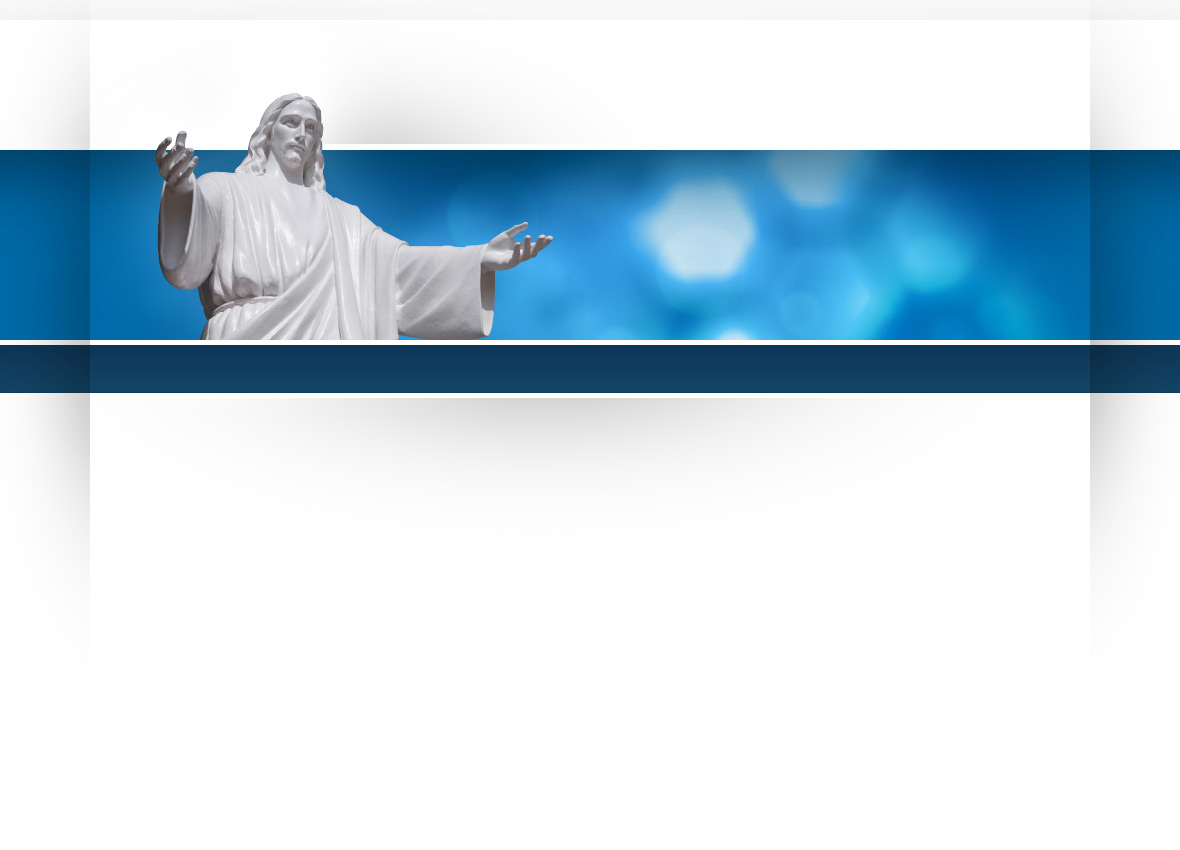
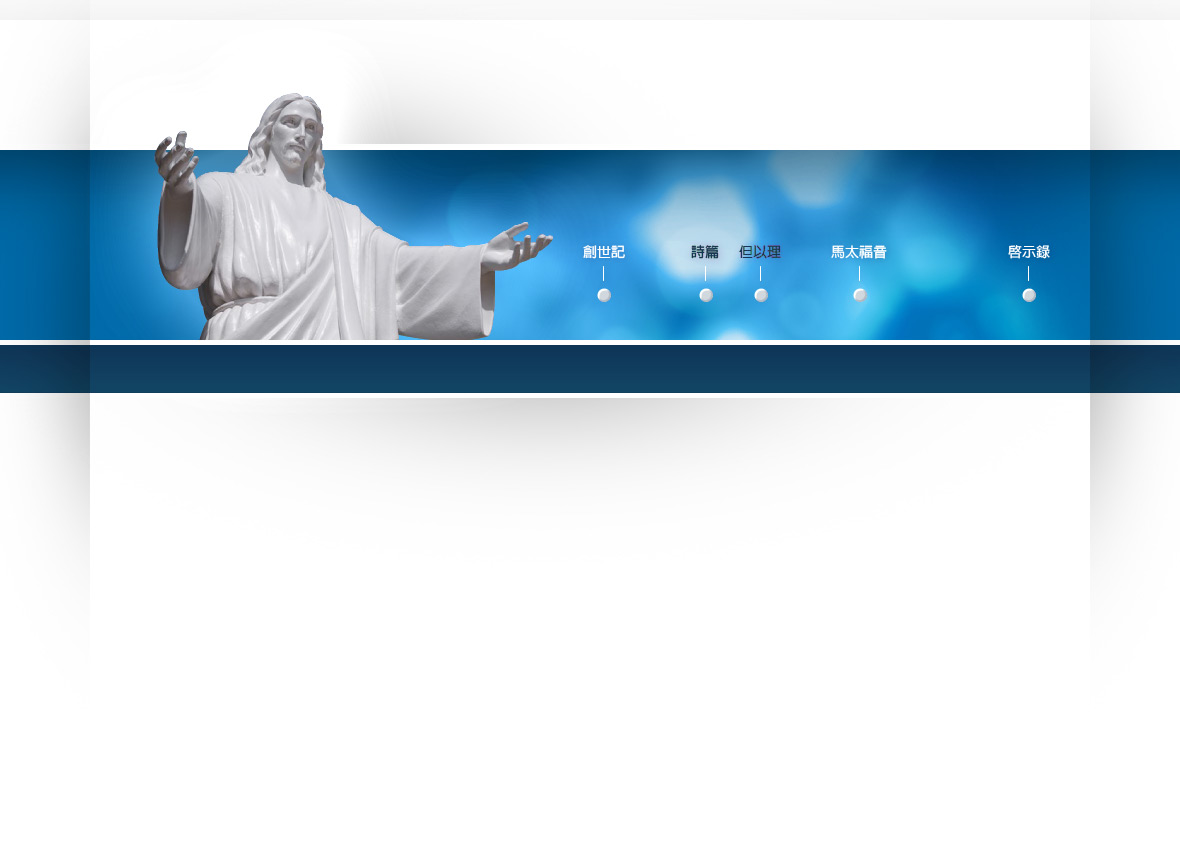
美化書籍導覽列(首頁) 首頁重新設計 更新版權聲明

diff --git a/layout_main/css/default.css b/layout_main/css/default.css
@@ -273,11 +273,11 @@ ul.style3 li {
 
 .scroll-bar-wrap{
     position:absolute;
-    right:20px;
-    top:60px;
-    width:240px;
+    right:44px;
+    top:40px;
+    width:457px;
     height:32px;
-    border:1px solid #ccc;
+    border-bottom:1px solid #ccc;
 }
 .scroll-bar{
     clear: both;
@@ -285,7 +285,7 @@ ul.style3 li {
     margin:0 auto;
 }
 .scroll-bar .ui-handle-helper-parent { position: relative; width: 100%; height: 30px; margin: 0 auto; }
-.scroll-bar .ui-slider-handle { display:block; position:absolute; top:3px; height: 25px;background:#ccc; }
+.scroll-bar .ui-slider-handle { display:block; position:absolute; top:1px; height: 30px; background:url(../images/scrollbar-handler.png) no-repeat 0 12px; }
 .scroll-bar .ui-slider-handle .ui-icon { margin: -8px auto 0; position: relative; top: 50%; }
 
 /* Corner radius */

diff --git a/layout_main/css/layout.css b/layout_main/css/layout.css
@@ -63,7 +63,30 @@ a.rss{
 #content ul li{
     margin:5px 0;
 }
-
+#bible-container{
+    height:550px;
+    width:900px;
+    overflow:hidden;
+}
+#bible-container ul{
+    height:550px;
+    margin-left:0px;
+}
+#bible-container ul li{
+    float:left;
+    width:180px;
+    height:100%;
+}
+.bible-button{
+    height:40px;
+    line-height:40px;
+    width:440px;
+    text-align:center;
+    cursor:pointer;
+    border:1px solid #ccc;
+}
+#bible-old{ float:left; }
+#bible-new{ float:right; }
 /** SIDEBAR */
 
 #sidebar {

diff --git a/main=index.php b/main=index.php
@@ -22,19 +22,138 @@ $(document).ready( function(){
             href:url
         });
     });
-    $('.bookNav').append('<div id="chapter-guide"></div>');
+    //$('.bookNav').append('<div id="chapter-guide"></div>');
+    $("#bible-container").jCarouselLite({
+        //auto: 6000,
+        speed: 500,
+        circular: false,
+        //hoverPause: true,
+        visible: 5,
+        scroll: 5,
+        btnNext: '#bible-new',
+        btnPrev: '#bible-old'
+    });
 });
 </script>
 <?php } ?>
 
 
 <style>
-.sky { float:left;height:450px;font-family: Georgia, "蘋果儷黑體", "微軟正黑體", "新細明體", "Times New Roman", Times, serif; }
+.sky { float:left;font-family: Georgia, "蘋果儷黑體", "微軟正黑體", "新細明體", "Times New Roman", Times, serif; }
 .cloud a{ text-decoration:none; }
 .cloud a:hover{ text-decoration:underline; }
+.chapter_digit{ color:#000;font-size:13px;font-weight:bold;font-family:Arial; }
 </style>
 			<div id="page" class="single container">
 				<div id="content">
+				    <div class="cloud sky clearfix" style="border-bottom:1px solid #CCC;margin-bottom:40px;">
+    				    <div class="clearfix">
+    				        <div id="bible-old" class="bible-button ui-corner-all"><h2 class="title">舊約 Old Testament</h2></div>
+    				        <div id="bible-new" class="bible-button ui-corner-all"><h2 class="title">新約 New Testament</h2></div>
+				        </div>
+				        <div id="bible-container">
+				            <ul>
+				                <li>
+				                    <div>
+                                    <img src="<?php echo url('/cabinets/bible/bible-1.png'); ?>">
+<a href="創世記.html" style="font-size:16px;" rel="bible-index" name="創世記">創世記</a> <span class="chapter_digit">50</span> &nbsp;<a href="創世記.html" style="font-size:12px;color:#999;">概要</a><br>
+<a href="出埃及記.html" style="font-size:16px;" rel="bible-index" name="出埃及記">出埃及記</a> <span class="chapter_digit">40</span> &nbsp;<a href="出埃及記.html" style="font-size:12px;color:#999;">概要</a><br>
+<a href="利未記.html" style="font-size:16px;" rel="bible-index" name="利未記">利未記</a> <span class="chapter_digit">27</span> &nbsp;<a href="利未記.html" style="font-size:12px;color:#999;">概要</a><br>
+<a href="民數記.html" style="font-size:16px;" rel="bible-index" name="民數記">民數記</a> <span class="chapter_digit">36</span> &nbsp;<a href="民數記.html" style="font-size:12px;color:#999;">概要</a><br>
+<a href="申命記.html" style="font-size:16px;" rel="bible-index" name="申命記">申命記</a> <span class="chapter_digit">34</span> &nbsp;<a href="申命記.html" style="font-size:12px;color:#999;">概要</a><br>
+                                    </div>
+                                </li>
+				                <li>
+                                    <img src="<?php echo url('/cabinets/bible/bible-2.png'); ?>">
+<span style="font-size:11px;color:#ccc;font-family:Arial;">6 </span> <a href="約書亞記.html" style="font-size:16px;" rel="bible-index" name="約書亞記">約書亞記</a> <span style="color:#000;font-size:13px;font-weight:bold;font-family:Arial;">24</span> &nbsp;<a href="約書亞記.html" style="font-size:12px;color:#999;">概要</a><br>
+<span style="font-size:11px;color:#ccc;font-family:Arial;">7 </span> <a href="士師記.html" style="font-size:16px;" rel="bible-index" name="士師記">士師記</a> <span style="color:#000;font-size:13px;font-weight:bold;font-family:Arial;">21</span> &nbsp;<a href="士師記.html" style="font-size:12px;color:#999;">概要</a><br>
+<span style="font-size:11px;color:#ccc;font-family:Arial;">8 </span> <a href="路得記.html" style="font-size:16px;" rel="bible-index" name="路得記">路得記</a> <span style="color:#000;font-size:13px;font-weight:bold;font-family:Arial;">4</span> &nbsp;<a href="路得記.html" style="font-size:12px;color:#999;">概要</a><br>
+<span style="font-size:11px;color:#ccc;font-family:Arial;">9 </span> <a href="撒母耳記上.html" style="font-size:16px;" rel="bible-index" name="撒母耳記上">撒母耳記上</a> <span style="color:#000;font-size:13px;font-weight:bold;font-family:Arial;">31</span> &nbsp;<a href="撒母耳記上.html" style="font-size:12px;color:#999;">概要</a><br>
+<span style="font-size:11px;color:#ccc;font-family:Arial;">10 </span> <a href="撒母耳記下.html" style="font-size:16px;" rel="bible-index" name="撒母耳記下">撒母耳記下</a> <span style="color:#000;font-size:13px;font-weight:bold;font-family:Arial;">24</span> &nbsp;<a href="撒母耳記下.html" style="font-size:12px;color:#999;">概要</a><br>
+<span style="font-size:11px;color:#ccc;font-family:Arial;">11 </span> <a href="列王紀上.html" style="font-size:16px;" rel="bible-index" name="列王紀上">列王紀上</a> <span style="color:#000;font-size:13px;font-weight:bold;font-family:Arial;">22</span> &nbsp;<a href="列王紀上.html" style="font-size:12px;color:#999;">概要</a><br>
+<span style="font-size:11px;color:#ccc;font-family:Arial;">12 </span> <a href="列王紀下.html" style="font-size:16px;" rel="bible-index" name="列王紀下">列王紀下</a> <span style="color:#000;font-size:13px;font-weight:bold;font-family:Arial;">25</span> &nbsp;<a href="列王紀下.html" style="font-size:12px;color:#999;">概要</a><br>
+<span style="font-size:11px;color:#ccc;font-family:Arial;">13 </span> <a href="歷代志上.html" style="font-size:16px;" rel="bible-index" name="歷代志上">歷代志上</a> <span style="color:#000;font-size:13px;font-weight:bold;font-family:Arial;">29</span> &nbsp;<a href="歷代志上.html" style="font-size:12px;color:#999;">概要</a><br>
+<span style="font-size:11px;color:#ccc;font-family:Arial;">14 </span> <a href="歷代志下.html" style="font-size:16px;" rel="bible-index" name="歷代志下">歷代志下</a> <span style="color:#000;font-size:13px;font-weight:bold;font-family:Arial;">36</span> &nbsp;<a href="歷代志下.html" style="font-size:12px;color:#999;">概要</a><br>
+<span style="font-size:11px;color:#ccc;font-family:Arial;">15 </span> <a href="以斯拉記.html" style="font-size:16px;" rel="bible-index" name="以斯拉記">以斯拉記</a> <span style="color:#000;font-size:13px;font-weight:bold;font-family:Arial;">10</span> &nbsp;<a href="以斯拉記.html" style="font-size:12px;color:#999;">概要</a><br>
+<span style="font-size:11px;color:#ccc;font-family:Arial;">16 </span> <a href="尼希米記.html" style="font-size:16px;" rel="bible-index" name="尼希米記">尼希米記</a> <span style="color:#000;font-size:13px;font-weight:bold;font-family:Arial;">13</span> &nbsp;<a href="尼希米記.html" style="font-size:12px;color:#999;">概要</a><br>
+<span style="font-size:11px;color:#ccc;font-family:Arial;">17 </span> <a href="以斯帖記.html" style="font-size:16px;" rel="bible-index" name="以斯帖記">以斯帖記</a> <span style="color:#000;font-size:13px;font-weight:bold;font-family:Arial;">10</span> &nbsp;<a href="以斯帖記.html" style="font-size:12px;color:#999;">概要</a><br>
+                                </li>
+				                <li>
+                                    <img src="<?php echo url('/cabinets/bible/bible-3.png'); ?>">
+<span style="font-size:11px;color:#ccc;font-family:Arial;">18 </span> <a href="約伯記.html" style="font-size:16px;" rel="bible-index" name="約伯記">約伯記</a> <span style="color:#000;font-size:13px;font-weight:bold;font-family:Arial;">42</span> &nbsp;<a href="約伯記.html" style="font-size:12px;color:#999;">概要</a><br>
+<span style="font-size:11px;color:#ccc;font-family:Arial;">19 </span> <a href="詩篇.html" style="font-size:16px;" rel="bible-index" name="詩篇">詩篇</a> <span style="color:#000;font-size:13px;font-weight:bold;font-family:Arial;">150</span> &nbsp;<a href="詩篇.html" style="font-size:12px;color:#999;">概要</a><br>
+<span style="font-size:11px;color:#ccc;font-family:Arial;">20 </span> <a href="箴言.html" style="font-size:16px;" rel="bible-index" name="箴言">箴言</a> <span style="color:#000;font-size:13px;font-weight:bold;font-family:Arial;">31</span> &nbsp;<a href="箴言.html" style="font-size:12px;color:#999;">概要</a><br>
+<span style="font-size:11px;color:#ccc;font-family:Arial;">21 </span> <a href="傳道書.html" style="font-size:16px;" rel="bible-index" name="傳道書">傳道書</a> <span style="color:#000;font-size:13px;font-weight:bold;font-family:Arial;">12</span> &nbsp;<a href="傳道書.html" style="font-size:12px;color:#999;">概要</a><br>
+<span style="font-size:11px;color:#ccc;font-family:Arial;">22 </span> <a href="雅歌.html" style="font-size:16px;" rel="bible-index" name="雅歌">雅歌</a> <span style="color:#000;font-size:13px;font-weight:bold;font-family:Arial;">8</span> &nbsp;<a href="雅歌.html" style="font-size:12px;color:#999;">概要</a><br>
+                                </li>
+				                <li>
+                                    <img src="<?php echo url('/cabinets/bible/bible-4.png'); ?>">
+<span style="font-size:11px;color:#ccc;font-family:Arial;">23 </span> <a href="以賽亞書.html" style="font-size:16px;" rel="bible-index" name="以賽亞書">以賽亞書</a> <span style="color:#000;font-size:13px;font-weight:bold;font-family:Arial;">66</span> &nbsp;<a href="以賽亞書.html" style="font-size:12px;color:#999;">概要</a><br>
+<span style="font-size:11px;color:#ccc;font-family:Arial;">24 </span> <a href="耶利米書.html" style="font-size:16px;" rel="bible-index" name="耶利米書">耶利米書</a> <span style="color:#000;font-size:13px;font-weight:bold;font-family:Arial;">52</span> &nbsp;<a href="耶利米書.html" style="font-size:12px;color:#999;">概要</a><br>
+<span style="font-size:11px;color:#ccc;font-family:Arial;">25 </span> <a href="耶利米哀歌.html" style="font-size:16px;" rel="bible-index" name="耶利米哀歌">耶利米哀歌</a> <span style="color:#000;font-size:13px;font-weight:bold;font-family:Arial;">5</span> &nbsp;<a href="耶利米哀歌.html" style="font-size:12px;color:#999;">概要</a><br>
+<span style="font-size:11px;color:#ccc;font-family:Arial;">26 </span> <a href="以西結書.html" style="font-size:16px;" rel="bible-index" name="以西結書">以西結書</a> <span style="color:#000;font-size:13px;font-weight:bold;font-family:Arial;">48</span> &nbsp;<a href="以西結書.html" style="font-size:12px;color:#999;">概要</a><br>
+<span style="font-size:11px;color:#ccc;font-family:Arial;">27 </span> <a href="但以理書.html" style="font-size:16px;" rel="bible-index" name="但以理書">但以理書</a> <span style="color:#000;font-size:13px;font-weight:bold;font-family:Arial;">12</span> &nbsp;<a href="但以理書.html" style="font-size:12px;color:#999;">概要</a><br>
+                                </li>
+				                <li>
+                                    <img src="<?php echo url('/cabinets/bible/bible-5.png'); ?>">
+<span style="font-size:11px;color:#ccc;font-family:Arial;">28 </span> <a href="何西阿書.html" style="font-size:16px;" rel="bible-index" name="何西阿書">何西阿書</a> <span style="color:#000;font-size:13px;font-weight:bold;font-family:Arial;">14</span> &nbsp;<a href="何西阿書.html" style="font-size:12px;color:#999;">概要</a><br>
+<span style="font-size:11px;color:#ccc;font-family:Arial;">29 </span> <a href="約珥書.html" style="font-size:16px;" rel="bible-index" name="約珥書">約珥書</a> <span style="color:#000;font-size:13px;font-weight:bold;font-family:Arial;">3</span> &nbsp;<a href="約珥書.html" style="font-size:12px;color:#999;">概要</a><br>
+<span style="font-size:11px;color:#ccc;font-family:Arial;">30 </span> <a href="阿摩司書.html" style="font-size:16px;" rel="bible-index" name="阿摩司書">阿摩司書</a> <span style="color:#000;font-size:13px;font-weight:bold;font-family:Arial;">9</span> &nbsp;<a href="阿摩司書.html" style="font-size:12px;color:#999;">概要</a><br>
+<span style="font-size:11px;color:#ccc;font-family:Arial;">31 </span> <a href="俄巴底亞書.html" style="font-size:16px;" rel="bible-index" name="俄巴底亞書">俄巴底亞書</a> <span style="color:#000;font-size:13px;font-weight:bold;font-family:Arial;">1</span> &nbsp;<a href="俄巴底亞書.html" style="font-size:12px;color:#999;">概要</a><br>
+<span style="font-size:11px;color:#ccc;font-family:Arial;">32 </span> <a href="約拿書.html" style="font-size:16px;" rel="bible-index" name="約拿書">約拿書</a> <span style="color:#000;font-size:13px;font-weight:bold;font-family:Arial;">4</span> &nbsp;<a href="約拿書.html" style="font-size:12px;color:#999;">概要</a><br>
+<span style="font-size:11px;color:#ccc;font-family:Arial;">33 </span> <a href="彌迦書.html" style="font-size:16px;" rel="bible-index" name="彌迦書">彌迦書</a> <span style="color:#000;font-size:13px;font-weight:bold;font-family:Arial;">7</span> &nbsp;<a href="彌迦書.html" style="font-size:12px;color:#999;">概要</a><br>
+<span style="font-size:11px;color:#ccc;font-family:Arial;">34 </span> <a href="那鴻書.html" style="font-size:16px;" rel="bible-index" name="那鴻書">那鴻書</a> <span style="color:#000;font-size:13px;font-weight:bold;font-family:Arial;">3</span> &nbsp;<a href="那鴻書.html" style="font-size:12px;color:#999;">概要</a><br>
+<span style="font-size:11px;color:#ccc;font-family:Arial;">35 </span> <a href="哈巴谷書.html" style="font-size:16px;" rel="bible-index" name="哈巴谷書">哈巴谷書</a> <span style="color:#000;font-size:13px;font-weight:bold;font-family:Arial;">3</span> &nbsp;<a href="哈巴谷書.html" style="font-size:12px;color:#999;">概要</a><br>
+<span style="font-size:11px;color:#ccc;font-family:Arial;">36 </span> <a href="西番雅書.html" style="font-size:16px;" rel="bible-index" name="西番雅書">西番雅書</a> <span style="color:#000;font-size:13px;font-weight:bold;font-family:Arial;">3</span> &nbsp;<a href="西番雅書.html" style="font-size:12px;color:#999;">概要</a><br>
+<span style="font-size:11px;color:#ccc;font-family:Arial;">37 </span> <a href="哈該書.html" style="font-size:16px;" rel="bible-index" name="哈該書">哈該書</a> <span style="color:#000;font-size:13px;font-weight:bold;font-family:Arial;">2</span> &nbsp;<a href="哈該書.html" style="font-size:12px;color:#999;">概要</a><br>
+<span style="font-size:11px;color:#ccc;font-family:Arial;">38 </span> <a href="撒迦利亞書.html" style="font-size:16px;" rel="bible-index" name="撒迦利亞書">撒迦利亞書</a> <span style="color:#000;font-size:13px;font-weight:bold;font-family:Arial;">14</span> &nbsp;<a href="撒迦利亞書.html" style="font-size:12px;color:#999;">概要</a><br>
+<span style="font-size:11px;color:#ccc;font-family:Arial;">39 </span> <a href="瑪拉基書.html" style="font-size:16px;" rel="bible-index" name="瑪拉基書">瑪拉基書</a> <span style="color:#000;font-size:13px;font-weight:bold;font-family:Arial;">4</span> &nbsp;<a href="瑪拉基書.html" style="font-size:12px;color:#999;">概要</a><br>
+                                </li>
+				                <li>
+                                    <img src="<?php echo url('/cabinets/bible/bible-6.png'); ?>">
+<span style="font-size:11px;color:#ccc;font-family:Arial;">40 </span> <a href="馬太福音.html" style="font-size:16px;" rel="bible-index" name="馬太福音">馬太福音</a> <span style="color:#000;font-size:13px;font-weight:bold;font-family:Arial;">28</span> &nbsp;<a href="馬太福音.html" style="font-size:12px;color:#999;">概要</a><br>
+<span style="font-size:11px;color:#ccc;font-family:Arial;">41 </span> <a href="馬可福音.html" style="font-size:16px;" rel="bible-index" name="馬可福音">馬可福音</a> <span style="color:#000;font-size:13px;font-weight:bold;font-family:Arial;">16</span> &nbsp;<a href="馬可福音.html" style="font-size:12px;color:#999;">概要</a><br>
+<span style="font-size:11px;color:#ccc;font-family:Arial;">42 </span> <a href="路加福音.html" style="font-size:16px;" rel="bible-index" name="路加福音">路加福音</a> <span style="color:#000;font-size:13px;font-weight:bold;font-family:Arial;">24</span> &nbsp;<a href="路加福音.html" style="font-size:12px;color:#999;">概要</a><br>
+<span style="font-size:11px;color:#ccc;font-family:Arial;">43 </span> <a href="約翰福音.html" style="font-size:16px;" rel="bible-index" name="約翰福音">約翰福音</a> <span style="color:#000;font-size:13px;font-weight:bold;font-family:Arial;">21</span> &nbsp;<a href="約翰福音.html" style="font-size:12px;color:#999;">概要</a><br>
+                                </li>
+				                <li>
+                                    <img src="<?php echo url('/cabinets/bible/bible-7.png'); ?>">
+<span style="font-size:11px;color:#ccc;font-family:Arial;">44 </span> <a href="使徒行傳.html" style="font-size:16px;" rel="bible-index" name="使徒行傳">使徒行傳</a> <span style="color:#000;font-size:13px;font-weight:bold;font-family:Arial;">28</span> &nbsp;<a href="使徒行傳.html" style="font-size:12px;color:#999;">概要</a><br>
+                                </li>
+				                <li>
+                                    <img src="<?php echo url('/cabinets/bible/bible-8.png'); ?>">
+<span style="font-size:11px;color:#ccc;font-family:Arial;">45 </span> <a href="羅馬書.html" style="font-size:16px;" rel="bible-index" name="羅馬書">羅馬書</a> <span style="color:#000;font-size:13px;font-weight:bold;font-family:Arial;">16</span> &nbsp;<a href="羅馬書.html" style="font-size:12px;color:#999;">概要</a><br>
+<span style="font-size:11px;color:#ccc;font-family:Arial;">46 </span> <a href="哥林多前書.html" style="font-size:16px;" rel="bible-index" name="哥林多前書">哥林多前書</a> <span style="color:#000;font-size:13px;font-weight:bold;font-family:Arial;">16</span> &nbsp;<a href="哥林多前書.html" style="font-size:12px;color:#999;">概要</a><br>
+<span style="font-size:11px;color:#ccc;font-family:Arial;">47 </span> <a href="哥林多後書.html" style="font-size:16px;" rel="bible-index" name="哥林多後書">哥林多後書</a> <span style="color:#000;font-size:13px;font-weight:bold;font-family:Arial;">13</span> &nbsp;<a href="哥林多後書.html" style="font-size:12px;color:#999;">概要</a><br>
+<span style="font-size:11px;color:#ccc;font-family:Arial;">48 </span> <a href="加拉太書.html" style="font-size:16px;" rel="bible-index" name="加拉太書">加拉太書</a> <span style="color:#000;font-size:13px;font-weight:bold;font-family:Arial;">6</span> &nbsp;<a href="加拉太書.html" style="font-size:12px;color:#999;">概要</a><br>
+<span style="font-size:11px;color:#ccc;font-family:Arial;">49 </span> <a href="以弗所書.html" style="font-size:16px;" rel="bible-index" name="以弗所書">以弗所書</a> <span style="color:#000;font-size:13px;font-weight:bold;font-family:Arial;">6</span> &nbsp;<a href="以弗所書.html" style="font-size:12px;color:#999;">概要</a><br>
+<span style="font-size:11px;color:#ccc;font-family:Arial;">50 </span> <a href="腓立比書.html" style="font-size:16px;" rel="bible-index" name="腓立比書">腓立比書</a> <span style="color:#000;font-size:13px;font-weight:bold;font-family:Arial;">4</span> &nbsp;<a href="腓立比書.html" style="font-size:12px;color:#999;">概要</a><br>
+<span style="font-size:11px;color:#ccc;font-family:Arial;">51 </span> <a href="歌羅西書.html" style="font-size:16px;" rel="bible-index" name="歌羅西書">歌羅西書</a> <span style="color:#000;font-size:13px;font-weight:bold;font-family:Arial;">4</span> &nbsp;<a href="歌羅西書.html" style="font-size:12px;color:#999;">概要</a><br>
+<span style="font-size:11px;color:#ccc;font-family:Arial;">52 </span> <a href="帖撒羅尼迦前書.html" style="font-size:16px;" rel="bible-index" name="帖撒羅尼迦前書">帖撒羅尼迦前書</a> <span style="color:#000;font-size:13px;font-weight:bold;font-family:Arial;">5</span> &nbsp;<a href="帖撒羅尼迦前書.html" style="font-size:12px;color:#999;">概要</a><br>
+<span style="font-size:11px;color:#ccc;font-family:Arial;">53 </span> <a href="帖撒羅尼迦後書.html" style="font-size:16px;" rel="bible-index" name="帖撒羅尼迦後書">帖撒羅尼迦後書</a> <span style="color:#000;font-size:13px;font-weight:bold;font-family:Arial;">3</span> &nbsp;<a href="帖撒羅尼迦後書.html" style="font-size:12px;color:#999;">概要</a><br>
+<span style="font-size:11px;color:#ccc;font-family:Arial;">54 </span> <a href="提摩太前書.html" style="font-size:16px;" rel="bible-index" name="提摩太前書">提摩太前書</a> <span style="color:#000;font-size:13px;font-weight:bold;font-family:Arial;">6</span> &nbsp;<a href="提摩太前書.html" style="font-size:12px;color:#999;">概要</a><br>
+<span style="font-size:11px;color:#ccc;font-family:Arial;">55 </span> <a href="提摩太後書.html" style="font-size:16px;" rel="bible-index" name="提摩太後書">提摩太後書</a> <span style="color:#000;font-size:13px;font-weight:bold;font-family:Arial;">4</span> &nbsp;<a href="提摩太後書.html" style="font-size:12px;color:#999;">概要</a><br>
+<span style="font-size:11px;color:#ccc;font-family:Arial;">56 </span> <a href="提多書.html" style="font-size:16px;" rel="bible-index" name="提多書">提多書</a> <span style="color:#000;font-size:13px;font-weight:bold;font-family:Arial;">3</span> &nbsp;<a href="提多書.html" style="font-size:12px;color:#999;">概要</a><br>
+<span style="font-size:11px;color:#ccc;font-family:Arial;">57 </span> <a href="腓利門書.html" style="font-size:16px;" rel="bible-index" name="腓利門書">腓利門書</a> <span style="color:#000;font-size:13px;font-weight:bold;font-family:Arial;">1</span> &nbsp;<a href="腓利門書.html" style="font-size:12px;color:#999;">概要</a><br>
+                                </li>
+				                <li>
+                                    <img src="<?php echo url('/cabinets/bible/bible-9.png'); ?>">
+<span style="font-size:11px;color:#ccc;font-family:Arial;">58 </span> <a href="希伯來書.html" style="font-size:16px;" rel="bible-index" name="希伯來書">希伯來書</a> <span style="color:#000;font-size:13px;font-weight:bold;font-family:Arial;">13</span> &nbsp;<a href="希伯來書.html" style="font-size:12px;color:#999;">概要</a><br>
+<span style="font-size:11px;color:#ccc;font-family:Arial;">59 </span> <a href="雅各書.html" style="font-size:16px;" rel="bible-index" name="雅各書">雅各書</a> <span style="color:#000;font-size:13px;font-weight:bold;font-family:Arial;">5</span> &nbsp;<a href="雅各書.html" style="font-size:12px;color:#999;">概要</a><br>
+<span style="font-size:11px;color:#ccc;font-family:Arial;">60 </span> <a href="彼得前書.html" style="font-size:16px;" rel="bible-index" name="彼得前書">彼得前書</a> <span style="color:#000;font-size:13px;font-weight:bold;font-family:Arial;">5</span> &nbsp;<a href="彼得前書.html" style="font-size:12px;color:#999;">概要</a><br>
+<span style="font-size:11px;color:#ccc;font-family:Arial;">61 </span> <a href="彼得後書.html" style="font-size:16px;" rel="bible-index" name="彼得後書">彼得後書</a> <span style="color:#000;font-size:13px;font-weight:bold;font-family:Arial;">3</span> &nbsp;<a href="彼得後書.html" style="font-size:12px;color:#999;">概要</a><br>
+<span style="font-size:11px;color:#ccc;font-family:Arial;">62 </span> <a href="約翰一書.html" style="font-size:16px;" rel="bible-index" name="約翰一書">約翰一書</a> <span style="color:#000;font-size:13px;font-weight:bold;font-family:Arial;">5</span> &nbsp;<a href="約翰一書.html" style="font-size:12px;color:#999;">概要</a><br>
+<span style="font-size:11px;color:#ccc;font-family:Arial;">63 </span> <a href="約翰二書.html" style="font-size:16px;" rel="bible-index" name="約翰二書">約翰二書</a> <span style="color:#000;font-size:13px;font-weight:bold;font-family:Arial;">1</span> &nbsp;<a href="約翰二書.html" style="font-size:12px;color:#999;">概要</a><br>
+<span style="font-size:11px;color:#ccc;font-family:Arial;">64 </span> <a href="約翰三書.html" style="font-size:16px;" rel="bible-index" name="約翰三書">約翰三書</a> <span style="color:#000;font-size:13px;font-weight:bold;font-family:Arial;">1</span> &nbsp;<a href="約翰三書.html" style="font-size:12px;color:#999;">概要</a><br>
+<span style="font-size:11px;color:#ccc;font-family:Arial;">65 </span> <a href="猶大書.html" style="font-size:16px;" rel="bible-index" name="猶大書">猶大書</a> <span style="color:#000;font-size:13px;font-weight:bold;font-family:Arial;">1</span> &nbsp;<a href="猶大書.html" style="font-size:12px;color:#999;">概要</a><br>
+                                </li>
+				                <li>
+                                    <img src="<?php echo url('/cabinets/bible/bible-10.png'); ?>">
+<span style="font-size:11px;color:#ccc;font-family:Arial;">66 </span> <a href="啟示錄.html" style="font-size:16px;" rel="bible-index" name="啟示錄">啟示錄</a> <span style="color:#000;font-size:13px;font-weight:bold;font-family:Arial;">22</span> &nbsp;<a href="啟示錄.html" style="font-size:12px;color:#999;">概要</a><br>
+                                </li>
+				            </ul>
+				        </div>
+				    </div>
 				    <div class="clearfix" style="border-bottom:1px solid #CCC;margin-bottom:40px;">
     					<div id="box5" class="box-style sky" style="width:550px;">
     					    <h2 class="title">舊約 Old Testament</h2>

diff --git a/javascript=init.php b/javascript=init.php
@@ -16,6 +16,7 @@ $(document).ready( function(){
         });
     });
     
+    /* 設定 books navigator 的起始位置 */
     if( $('#menu .active a').length > 0 ){
         var offsetLeft = ( $('#menu .active a')[0].offsetLeft - 320 );
     }else{
@@ -62,11 +63,11 @@ $( function(){
 	//size scrollbar and handle proportionally to scroll distance
 	function sizeScrollbar() {
         var warpSize = $('.scroll-bar-wrap').width();
-		var handleSize = 1;//warpSize * ( scrollPane.width() / scrollContent.width() );
+		var handleSize = 32;//warpSize * ( scrollPane.width() / scrollContent.width() );
 		
 		var leftVal = scrollContent.css( "margin-left" ) === "auto" ? 0 :
 			parseInt( scrollContent.css( "margin-left" ) );
-		var handleLeft = warpSize * ( (-leftVal) / ( scrollContent.width()-scrollPane.width() ) ) - handleSize;
+		var handleLeft = warpSize * ( (-leftVal) / ( scrollContent.width()-scrollPane.width() ) ) - handleSize/2;
 		
 		scrollbar.find( ".ui-slider-handle" ).css({
 			width: handleSize,

diff --git a/tpl_footer.php b/tpl_footer.php
@@ -1,7 +1,8 @@
 
 			<div id="footer" class="container" style="font-family: Arial;position:relative;">
-				<p style="float:left;margin-left:20px;">版權所有 <a target="_blank" href="http://www.ccya.tw">中華基督教新時代青年會</a> © 2011 JBride.cc. All Rights Reserved. &nbsp;</p>
-				<p style="float:right;margin-right:20px;">程式開發 <a target="_blank" href="http://www.morninglight.cc">MorningLight 晨光青年網 - 解開人生的根本問題</a></p>
+				<p>本站由 <a target="_blank" href="http://www.ccya.tw">中華基督教新時代青年會</a> 提供<br>
+                程式開發 <a target="_blank" href="http://www.morninglight.cc">MorningLight 晨光青年網</a> &nbsp;
+                版權所有 JBride資訊站 © 2011 JBride.cc. All Rights Reserved.</p>
 			</div>
 		</div>
 	</div>

diff --git a/tpl_mainmenu.php b/tpl_mainmenu.php
@@ -39,7 +39,7 @@ foreach( $bibleFull as $id=>$name ){
     					</ul>
     				</div>
     			</div>
-    			<div class="scroll-bar-wrap ui-widget-content ui-corner-all"> 
+    			<div class="scroll-bar-wrap ui-widget-content"> 
                     <div class="scroll-bar"></div> 
                 </div>
 			</div>

diff --git a/tpl_header.php b/tpl_header.php
@@ -25,7 +25,7 @@
 <style>
 #menu-container{width:960px;margin:0 20px;}
 .logo{display:none;}
-.scroll-bar-wrap{ top:-40px; }
+.scroll-bar-wrap{ top:-47px; }
 </style>
 <?php include('tpl_mainmenu.php'); ?>
 
